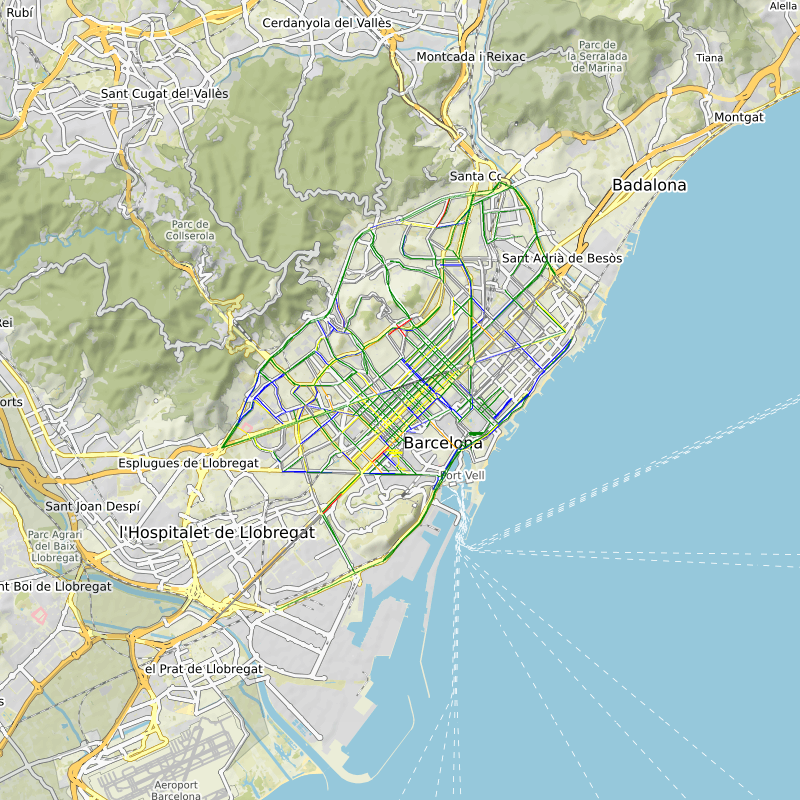
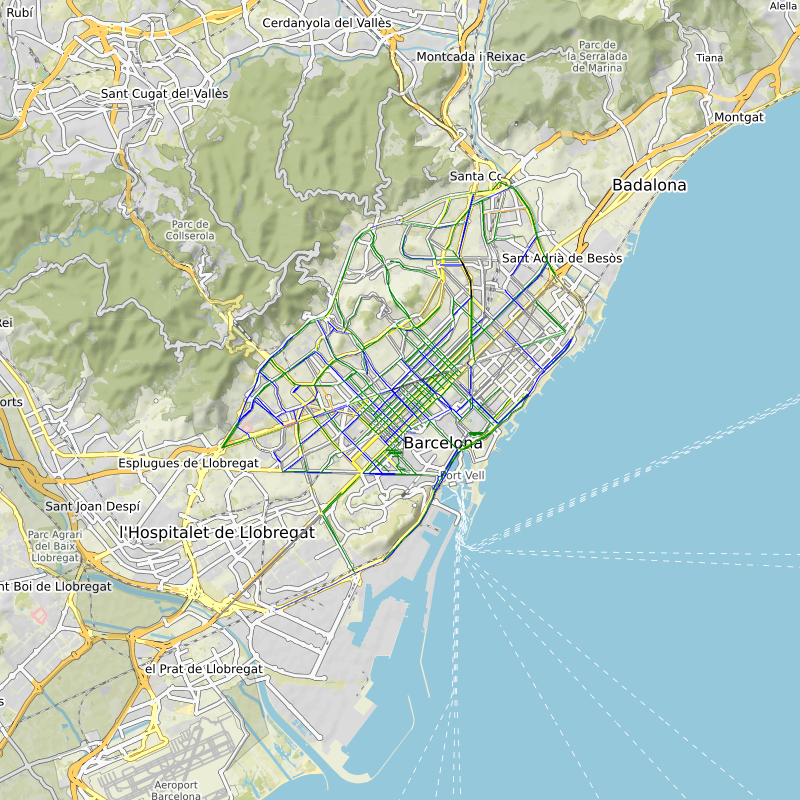
Ja sta tot formatat

diff --git a/i-go1.py b/i-go1.py
@@ -6,7 +6,6 @@
 
 from typing import NoReturn
 from networkx.algorithms.bipartite.matching import INFINITY
-
 from networkx.generators.classic import path_graph
 import fiona #pel mac
 import osmnx as ox
@@ -27,8 +26,8 @@ PLOT_GRAPH_FILENAME= 'plot_bcn.graph'
 ARBITRARY= 1
 INFINIT= 10000000000
 
-Highway = collections.namedtuple('Highway', ['way_id', 'description', 'coordinates']) # Tram
-Congestion= collections.namedtuple('Congestion',['c_id', 'date', 'current', 'future']) #Trànsit
+Highway = collections.namedtuple('Highway', ['way_id', 'coordinates']) # Tram
+Congestion= collections.namedtuple('Congestion',['c_id', 'congestion']) #Trànsit
 
 #checks if there is an existent graph file
 def exists_graph(GRAPH_FILENAME):
@@ -56,59 +55,45 @@ def load_graph(GRAPH_FILENAME):
     return graph
 
 #gives the visual representation of a graph, printed onscreen (default) or saved in a .png file
-def plot_graph(graph, onscreen=True): #onscreen must be True if MacOS is used and False if WindowsOS is used
+def plot_graph(graph, onscreen=False): #onscreen must be True if MacOS is used and False if WindowsOS is used
     if (onscreen):
         ox.plot_graph(graph, show=True)
     else:
         ox.plot_graph(graph, show= False, save= True, filepath= 'bcn.png')
 
-#returns every coordinate as a float
-def string_to_float (coordinates, i):
-    new_coordinate = 0
-    dot = False
-    j = 1
-    while (i < len (coordinates) and coordinates[i] != ',' ):
-        if (coordinates[i] == '.'):
-            dot = True
-        elif (coordinates[i] != ' '):
-            if dot:
-                new_coordinate = new_coordinate + float (coordinates[i]) * pow (10, -j)
-                j += 1
-            else:
-                new_coordinate = new_coordinate * 10 + float (coordinates[i])
-        i += 1
-    i += 1 #i doesn't have to stay at position with ,
-    return new_coordinate, i
-
 #adjust coordinates from panda lecture to a list of pairs
 def adjust_coordinates(highways):
     for highway in highways:
+        highway[1] = highway[1].split(',')
         i=0
         newcord=[]
-        while (i<len(highway[2])):
-            x,i = string_to_float(highway[2],i)
-            y,i = string_to_float(highway[2],i)
+        while (i < len(highway[1])): #highway[1] are the coordinates
+            x = float (highway[1][i])
+            i += 1
+            y = float (highway[1][i])
+            i += 1
             pair= (x,y)
             newcord.append(pair)
-        highway[2]= newcord
+        highway[1]= newcord
+    return
+
 
 #downloads highways info and stores it in a tuple
 def download_highways(HIGHWAYS_URL): #versió utilitzant panda, trobo que queda més net
-
-    df= pd.read_csv(HIGHWAYS_URL) #reads the csv file
+    df = pd.read_csv(HIGHWAYS_URL, usecols = ['Tram', 'Coordenades']) #reads the csv file
     highways= df.values.tolist() #adjusts to list format
-    adjust_coordinates(highways) #adjusts coordinates to float values
+    adjust_coordinates(highways) #adjusts coordinates to float
     n = -1
     for highway in highways:
         if (n < highway [0]):
             n = highway[0]
-    hw = [Highway(-1, "VOID", (-1, -1))] * n #list of namedtuple highways
-    for highway in highways:
-        hw [highway[0] - 1] = Highway(highway[0], highway[1], highway[2])
+    hw = [Highway(-1, (-1, -1))] * n #list of namedtuple highways
+    for highway in highways: #reoorder highways so they're sorted with way_id
+        hw [highway[0] - 1] = Highway(highway[0], highway[1])
     return hw, n
 
 #gives a visual representation of the highways in a static_map painted with lines and saves it into a png file (arbitrary size for tests, SIZE parameter can be added)
-def plot_highways(highways, SIZE):
+def plot_highways(highways, filename, SIZE):
     #ploting the data
     m = StaticMap (SIZE, SIZE) #test values
     for highway in highways:
@@ -116,34 +101,29 @@ def plot_highways(highways, SIZE):
             line = Line(highway.coordinates, 'red', 1) #highway[2] has to be the list of coordinates in pairs
             m.add_line(line)
 
-    print('checkpoint_succesful')
-
     #saving the image
     image = m.render()
-    image.save('highways.png')
+    image.save(filename)
 
 #gets all the congestions values and stores them in a list of the defined tuple congestions with the indicated parameters
-def pandas_download_congestions(CONGESTIONS_URL, n):
-    cf= pd.read_csv(CONGESTIONS_URL, sep='#', header= None)
-    #creates a list of lists with the parameters id, date, value1, value 2 read from the dataset
-    #de cares al plotting seria interessant veure quin dels dos valors és el que indica la congestió o com va
+def download_congestions(CONGESTIONS_URL, n):
+    cf= pd.read_csv(CONGESTIONS_URL, sep='#', header= None, usecols = [0, 2])
+    #creates a list of lists with the parameters id, congestion read from the dataset
     congestions= cf.values.tolist()
-    cong= [Congestion (-1, "void", -1, -1)]*n
+    cong= [Congestion (-1, -1)]*n
     for congestion in congestions:
-        cong [congestion[0] - 1]= Congestion(congestion[0], congestion[1], congestion[2], congestion[3])
+        cong [congestion[0] - 1] = Congestion(congestion[0], congestion[1])
     return cong
 
 
 #gives a visual representation of the congestion in a static_map painted with lines and saves it into a png file (arbitrary size for tests, SIZE parameter can be added)
-#colors correspondece : grey = no data, blue = very fluid, green = fluid, yellow = heavy, orange = very heavy, red = traffic jam, black =
-"""Com es diu en angles quan un carrer està tallat? es k cut sona macarronic"""
-''' Ho he buscat i crec que s'utilitza el terme blocked :)'''
-def plot_congestions (highways, congestions, SIZE):
+#colors correspondece : grey = no data, blue = very fluid, green = fluid, yellow = heavy, orange = very heavy, red = traffic jam, black = blocked
+def plot_congestions (highways, congestions, filename,  SIZE):
     m = StaticMap (SIZE, SIZE)
     for highway in highways:
         #only existing higways must be painted
         if highway.way_id != -1:
-            congestion_type = congestions[highway.way_id - 1].current
+            congestion_type = congestions[highway.way_id - 1].congestion
             if congestion_type == 0:
                 line = Line(highway.coordinates, 'grey', 1)
                 m.add_line(line)
@@ -166,7 +146,7 @@ def plot_congestions (highways, congestions, SIZE):
                 line = Line(highway.coordinates, 'black', 1)
                 m.add_line(line)
     image = m.render()
-    image.save('congestions.png')
+    image.save(filename)
 
 
 
@@ -211,11 +191,11 @@ def build_i_graph(graph, highways, congestions, ARBITRARY, INFINIT):
         #taking into account prec. minimum of 4 coordinates for a highway
         if (len(highway.coordinates)>0):
             start= highway.coordinates[0]+','+highway.coordinates[1]
-        while i< len(highway.coordinates)-1: #JAN, ACTUALMENT AQUEST PARÀMETRE ESTÀ EN PARELLS DE DOUBLES SI HO VOLS PASSAR A 
-            #UNA LLISTA DE STRINGS, AQUÍ ESTÀ PROGRAMAT PER FER-HO AIXÍ, FIXA'T QUE AGAFO PRIMER UNA DESPRÉS L'ALTRA I DESPRÉS LES PASSO 
+        while i< len(highway.coordinates)-1: #JAN, ACTUALMENT AQUEST PARÀMETRE ESTÀ EN PARELLS DE DOUBLES SI HO VOLS PASSAR A
+            #UNA LLISTA DE STRINGS, AQUÍ ESTÀ PROGRAMAT PER FER-HO AIXÍ, FIXA'T QUE AGAFO PRIMER UNA DESPRÉS L'ALTRA I DESPRÉS LES PASSO
             #A GEOCODE PER CADASCUNA DE LES PARELLES PERÒ SEMPRE ES POT REFORMATEJAR COM HO VEGIS, SINÓ TRUCA'M I HO COMENTEM QUAN ET VAGI BÉ
             #LLAVORS PODRÍEM ELIMITAR TOT EL CODI DE FORMATEIG AL UTILITZAR GEOCODE
-               #això estaria construint l'string amb la coma per si ho haguessim separat
+               #això estaria construint l'string amb la coma per si     ho haguessim separat
                 #al formatejar però si no hagués estat així i haguessim pescat cada dos posicions pel vector es fa una petita mod i com nou
             end=  highway.coordinates[i] +','+ highway.coordinates[i+1]
 
@@ -225,17 +205,17 @@ def build_i_graph(graph, highways, congestions, ARBITRARY, INFINIT):
                 end_posnode= ox.geocode(end)
             else:
                 end_posnode= ox.geocode(end)
-            
+
             #NOTA IMPORTANT, SI POSÉSSIM TOTS ELS VALORS X PER CADA NODE EN UNA LLISTA X I ÍDEM PELS Y PODRÍEM OBTENIR TOTS ELS NODES D1
             #PERO CREC QUE 1 A 1 POTSER ÉS MÉS FÀCIL DE TREBALLAR, VEURE FUNC.: https://osmnx.readthedocs.io/en/stable/osmnx.html?highlight=nearest_nodes#osmnx.distance.nearest_nodes
-            
-            #TROBEM ELS ID'S DELS NODES INICI I FINAL EN ELS QUE ENS TROBEM 
+
+            #TROBEM ELS ID'S DELS NODES INICI I FINAL EN ELS QUE ENS TROBEM
             if (first):
                 id_start= ox.nearest_nodes(start_posnode)
                 first= False
             else:
                 id_start=id_end
-            
+
             id_end= ox.nearest_nodes(end_posnode)
 
             #ONCE WE HAVE NODES GEOLOCALIZED WE GET THE PATH BETWEEN THEM AND ASSUME IT'S THE HIGHWAY
@@ -255,15 +235,15 @@ def build_i_graph(graph, highways, congestions, ARBITRARY, INFINIT):
                     first=False
                     j+=1
             except:
-                #there is no path between those two nodes, skip
+                "there is no path between those two nodes, skip"
 
         highway_id_counter+=1
 
     #HERE, THE CONGESTION VALUES THAT WE KNOW SHOULD BE SET IN THE RESPECTIVE PATHS OF ALL EDGES THAT ARE CONTAINED IN ALL OUR HIGHWAYS
     #I THINK THAT WE COULD COMPUTE THE AVERAGE CONGESTION WHEN READING AND SET IT AS THE VALUE OF THE ARBITRARY CONSTANT IF WE DON'T
-    #WANT TO OVERCOMPLICATE IT, ONCE ALL EDGES HAVE A CONGESTION VALUE WE CAN PROCEED AND ADD THE ITIME CONCEPT WHICH WILL BE ANOTHER PARAMETER 
+    #WANT TO OVERCOMPLICATE IT, ONCE ALL EDGES HAVE A CONGESTION VALUE WE CAN PROCEED AND ADD THE ITIME CONCEPT WHICH WILL BE ANOTHER PARAMETER
     #OF EVERY EDGE THAT THE SHORTEST PATH FUNCTION WILL TAKE IN CONSIDERATION FOR COMPUTING THE SORTEST PATH, FOR EXAMPLE
-        
+
         #adding itime value
     nx.set_edge_attributes(graph, INFINIT, name='itime')
 
@@ -273,12 +253,12 @@ def build_i_graph(graph, highways, congestions, ARBITRARY, INFINIT):
             length= graph[n1][n2][i]['lenght']
             speed_max= float(graph[n1][n2][i]['speed'])
             congestion= graph[n1][n2][i]['congestion']
-            itime= (length/speed)* congestion #arbitrary, after testing we calibrate it 
-    
+            itime= (length/speed)* congestion #arbitrary, after testing we calibrate it
+
     #HERE THE INTELLIGENT GRAPH IS BUILT AND NOW WE CAN COMPUTE THE SHORTEST PATH BETWEEN TWO NODES USING THE SHORTEST PATH FUNCTION, SEE BELOW:
     #sp= ox.shortest_path(starting_point, finishing_point, weight='itime')
 
-    
+
 
 def test():
     # loads/downloads graph (using cache) and plot it on the screen
@@ -291,19 +271,17 @@ def test():
         di_graph = load_graph(GRAPH_FILENAME)
         graph= load_graph(PLOT_GRAPH_FILENAME) #for printing issues
 
-
     plot_graph(graph) #prints the graph
 
     #downloads and prints highways
-    highways, n = download_highways(HIGHWAYS_URL)
-    plot_highways( highways, SIZE)
+    highways, n = download_highways(HIGHWAYS_URL) #n is the biggest way_id of the highways
+    plot_highways(highways, 'highways.png', SIZE)
 
     #downloads and prints congestions
-    congestions = pandas_download_congestions(CONGESTIONS_URL, n)
-    plot_congestions(highways, congestions, SIZE)
+    congestions = download_congestions(CONGESTIONS_URL, n)
+    plot_congestions(highways, congestions, 'congestions.png', SIZE)
 
     i_graph= build_i_graph(di_graph, congestions, highways, ARBITRARY, INFINIT)
-    
 
-#testing
+
 test()
